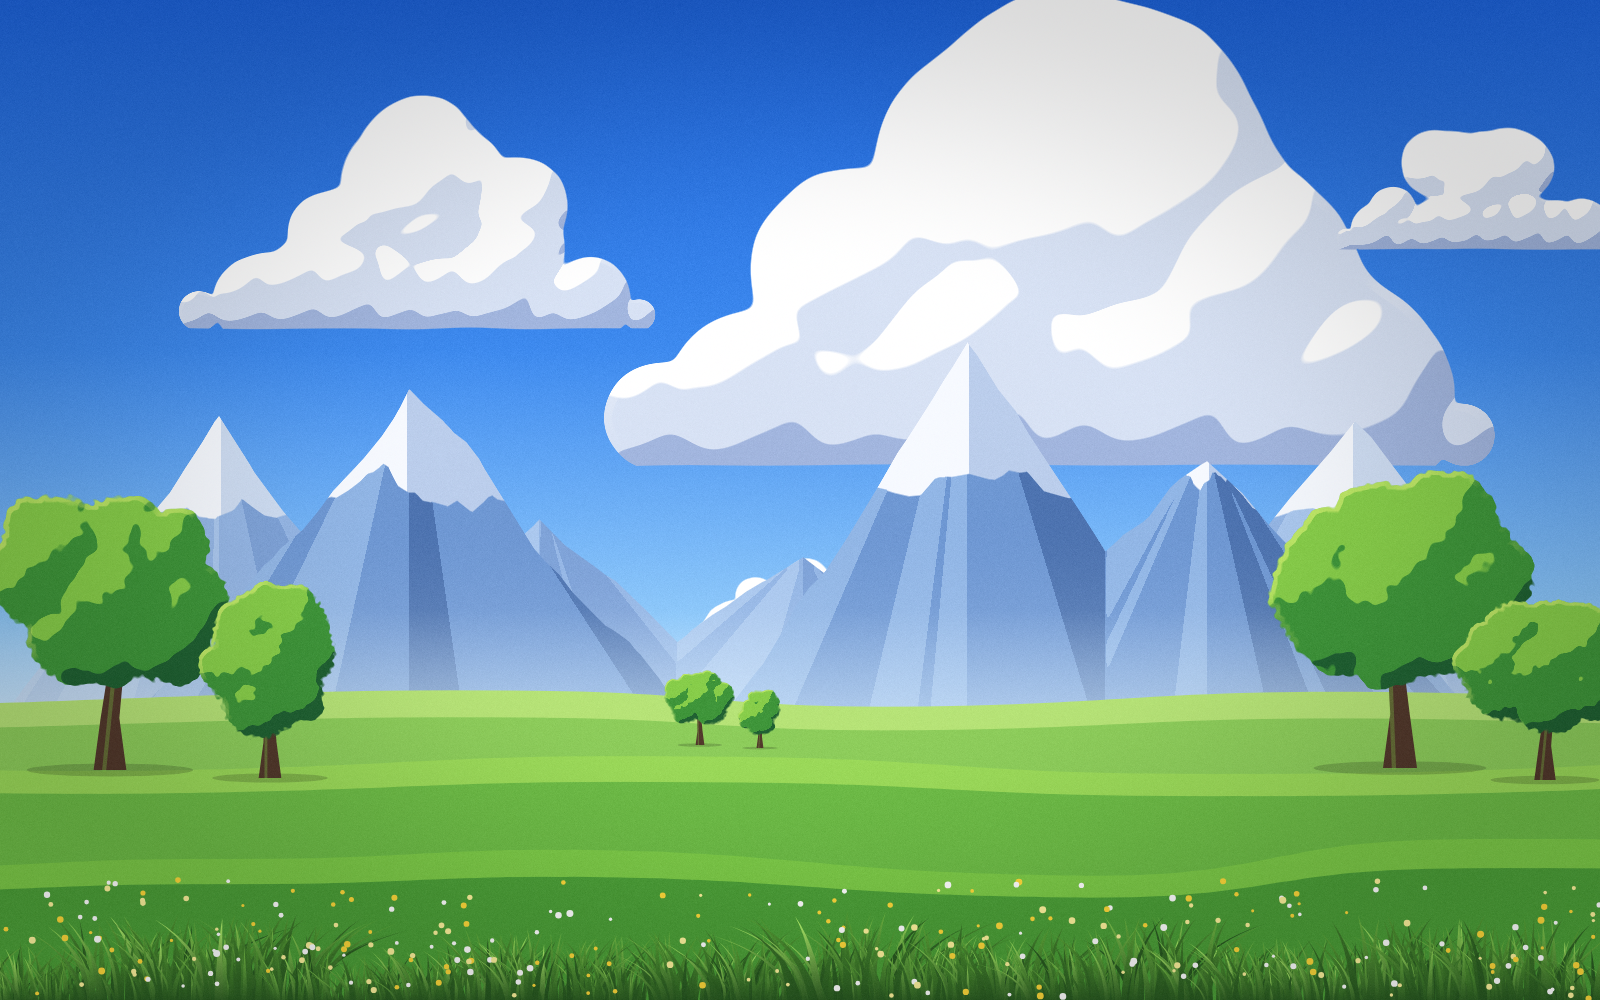
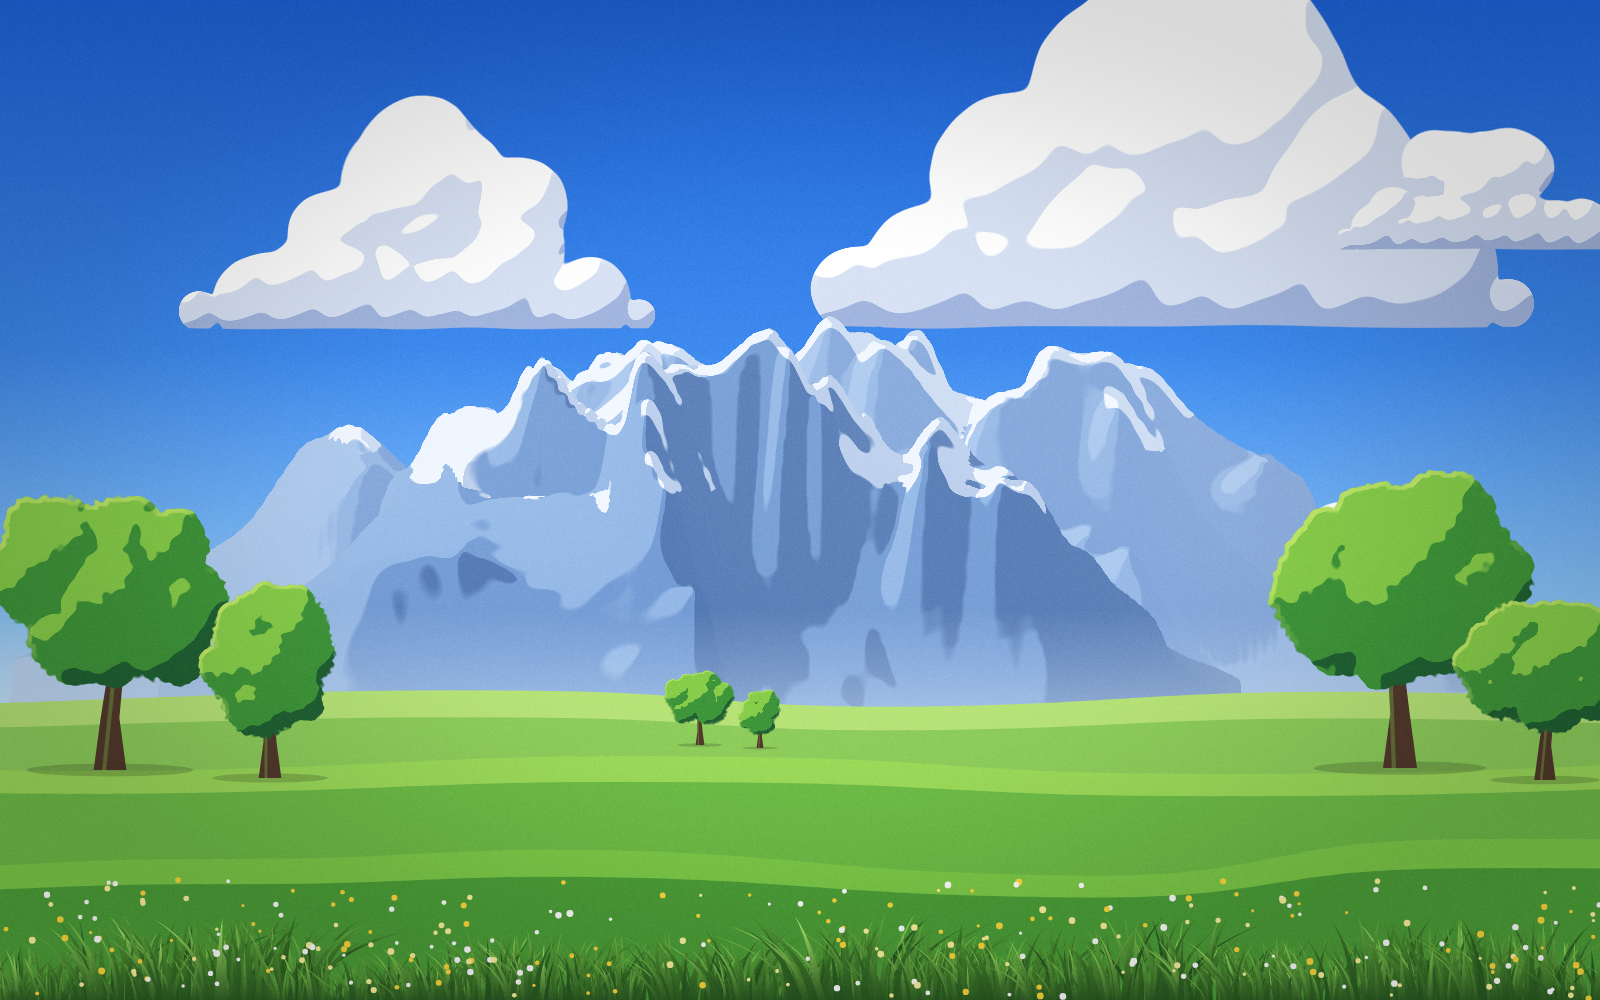
atelier 0.3.1: anime_mountains built from eroded terrain
Replace the cone + radial-spur construction with an eroded height map seen
from the front (painter's order, far rows higher), then flatten the light into
cel tones split by percentiles. Ridges, gullies and snow follow real relief.
New args: depth, bands (detail removed).

Changed region(s): [[0.0938, 0.0, 0.9688, 0.713]]

diff --git a/atelier/anime.py b/atelier/anime.py
@@ -343,70 +343,79 @@ MOUNTAIN_PALETTES = {  # shadow, mid, light, snow, snow shadow, haze
 }
 
 
-def _ridge1d(a, freq, rng, octaves=3):
-    """Ridged 1D value noise of a (any shape), ~freq features per unit."""
-    out = np.zeros_like(a)
-    amp, tot = 1.0, 0.0
-    for _ in range(octaves):
-        g = rng.uniform(-1, 1, 512)
-        v = np.interp((a * freq) % 511, np.arange(512), g)
-        out += (1 - np.abs(v)) * amp
-        tot += amp; amp *= 0.5; freq *= 2.1
-    return out / tot
-
-
-def _layer_anime_mountains(self, y, height, peaks=4, x0=None, x1=None, palette="day", light=(150, 30), snow=0.35,
-                           haze=0.6, sharp=1.0, detail=1.0, seed=0, opacity=1.0):
-    """Paint a cel-shaded mountain range whose foot lies on canvas row y; the highest peak rises `height` px.
-    peaks = number of main summits between x0 and x1 (default full width). Spurs radiate from each summit,
-    so lit and shadowed faces run diagonally (x0, x1 only place the summits); snow covers the top `snow` fraction (lit / shadowed tones).
-    palette: day | dusk | autumn | (shadow, mid, light, snow, snow_shadow, haze). haze fades the foot."""
+def _layer_anime_mountains(self, y, height, peaks=4, x0=None, x1=None, palette="day", light=(150, 35), snow=0.35,
+                           haze=0.6, sharp=1.0, depth=0.35, bands=3, seed=0, opacity=1.0):
+    """Paint a cel-shaded mountain range whose foot lies on canvas row y; the highest summit rises `height` px.
+    Built from an eroded height map seen from the front, so ridges, gullies and snow streaks are real
+    relief, then flattened into `bands` tones. peaks ~ number of main summits between x0 and x1 (default
+    full width); depth = how much the far ranges rise behind (0 = flat wall); snow = top fraction under
+    snow (it settles on gentle slopes); sharp > 1 = spikier summits.
+    palette: day | dusk | autumn | (shadow, mid, light, snow, snow_shadow, haze). haze fades far and low parts."""
+    from .terrain import terrain, normals
     s = self.s
     x0 = 0 if x0 is None else x0
     x1 = self.w if x1 is None else x1
     rng = np.random.default_rng(seed)
     pal = MOUNTAIN_PALETTES[palette] if isinstance(palette, str) else palette
     sh, md, lt, sn, sns, hz = (_rgb(c) for c in pal)
-    span = x1 - x0
-    xs = x0 + (np.arange(peaks) + 0.5 + rng.uniform(-0.3, 0.3, peaks)) / peaks * span
-    hs = rng.uniform(0.55, 1.0, peaks); hs[rng.integers(peaks)] = 1.0
-    ws = span / peaks * rng.uniform(0.7, 1.1, peaks) / sharp       # half-width at the foot, canvas px
 
-    X0, X1 = 0, self.W
-    Y0, Y1 = max(int((y - height * 1.05) * s), 0), min(int(y * s) + 1, self.H)
+    n = 160
+    hm = terrain(n, "alpine", seed=seed, scale=max(peaks * 0.55, 1.0))
+    zf = np.linspace(0, 1, n, dtype=F32)[:, None]                 # 0 = back row, 1 = front row
+    xf = np.linspace(0, 1, n, dtype=F32)[None, :]
+    env = np.clip(1 - (2 * zf - 1.1) ** 2 * 1.6, 0, 1) * np.clip(np.sin(np.pi * xf) * 1.3, 0, 1)
+    hm = cv2.GaussianBlur(np.clip(hm, 0, 1).astype(F32), (0, 0), 1.2) ** sharp * env   # summits mid-depth
+    hm = (hm / max(float(hm.max()), 1e-6)).astype(F32)
+
+    span = x1 - x0
+    X0, X1 = max(int(x0 * s), 0), min(int(x1 * s) + 1, self.W)
+    Y0, Y1 = max(int((y - height * (1 + depth) * 1.02) * s), 0), min(int(y * s) + 1, self.H)
     if X0 >= X1 or Y0 >= Y1:
         return self
-    yy, xx = np.mgrid[Y0:Y1, X0:X1].astype(F32)
-    cx, alt = xx / s, (y - yy / s) / height                       # canvas x, altitude 0 (foot) .. 1
-    best = np.full(cx.shape, -9.0, F32)
-    side = np.zeros_like(cx); radial = np.zeros_like(cx)
-    for xp, hp, wp in zip(xs, hs, ws):
-        u = (cx - xp) / wp
-        top = hp * np.clip(1 - np.abs(u), 0, None) ** 1.1                         # cone silhouette
-        m = top > best
-        best = np.where(m, top, best)
-        side = np.where(m, np.sign(u), side)
-        radial = np.where(m, u / np.maximum(hp - alt * 0.9, 0.05) + xp * 0.01, radial)   # angle around the summit
-    prof = best + (_ridge1d(cx / span, 9, rng) - 0.5) * 0.12 * detail * np.clip(best * 3, 0, 1)
-    inside = np.clip((prof - alt) * height * s / 1.2 + 0.5, 0, 1)
+    bw, bh = X1 - X0, Y1 - Y0
+    full = max(int(span * s), 2)                                   # resample columns to screen pixels
+    hx = cv2.resize(hm, (full, n), interpolation=cv2.INTER_CUBIC)[:, max(X0 - int(x0 * s), 0):][:, :bw]
+    if hx.shape[1] < bw:
+        hx = np.pad(hx, ((0, 0), (0, bw - hx.shape[1])), mode="edge")
+    N3 = normals(hx, size=bw / (height * s), height=1.0 / max(depth, 0.15) * 0.5)
+    alt = (y - (np.arange(Y0, Y1, dtype=F32)[:, None] + 0.5) / s) / height    # 0 at the foot
+    # front view, painter's order: far rows sit higher on screen (camera slightly above)
+    top = np.where(hx > 0.01, hx + (1 - zf) * depth, -1.0)        # bare ground behind does not form a wall
+    idx = np.full((bh, bw), -1, np.int32)
+    for z in range(n):
+        idx = np.where(top[z][None, :] > alt, z, idx)
+    sil = top.max(0)
+    alpha = np.clip((sil[None, :] - alt) * height * s / 1.2 + 0.5, 0, 1) * (idx >= 0)
+    zi = np.maximum(idx, 0)
+    cols = np.arange(bw)[None, :].repeat(bh, 0)
+    Nn = N3[zi, cols]
+    hh = hx[zi, cols]
+    zz = zi / (n - 1)
 
-    # facets: spurs radiate from summits; a face is lit when it turns toward the light
-    spur = _ridge1d(radial, 1.4, rng, 2)
-    dsp = np.gradient(spur, axis=1)
-    lx = float(_light_vec(light)[0])
-    face = -side * 0.6 + np.sign(dsp) * 0.5 * detail
-    t = -face * np.sign(lx) * 0.5 + 0.5
-    t = cv2.GaussianBlur(t.astype(F32), (0, 0), max(0.8, height * s * 0.004))
-    col = np.where((t > 0.7)[..., None], lt, np.where((t > 0.3)[..., None], md, sh)).astype(F32)
-    # snow: above a ragged snowline, streaks running down the spurs
-    line = 1 - snow + (spur - 0.5) * 0.35 * snow + (_ridge1d(cx / span, 23, rng, 2) - 0.5) * 0.08
-    sm = np.clip((alt - line) * height * s / 1.5 + 0.5, 0, 1) * (best > 0.45)
-    snowc = np.where((t > 0.5)[..., None], sn, sns)
-    col = col * (1 - sm[..., None]) + snowc * sm[..., None]
-    if haze > 0:
-        k = (np.clip(1 - alt / 0.6, 0, 1) ** 1.6 * haze)[..., None]
-        col = col * (1 - k) + hz * k
-    a = (inside * opacity)[..., None]
+    az, el = math.radians(light[0]), math.radians(light[1])
+    Lv = np.array([math.cos(az) * math.cos(el), math.sin(el), 0.45 * math.sin(az) * math.cos(el) + 0.3], F32)
+    Lv /= np.linalg.norm(Lv)
+    sg = max(1.5, height * s * 0.008)                              # smooth normals on screen (no row combing)
+    Nn = np.stack([cv2.GaussianBlur(np.ascontiguousarray(Nn[..., i]), (0, 0), sg) for i in range(3)], -1)
+    lam = (Nn @ Lv).astype(F32) / (np.linalg.norm(Nn, axis=-1) + 1e-6)
+    steps = [sh, md, lt] if bands == 3 else [sh, lt] if bands == 2 else [sh, (sh + md) / 2, md, lt]
+    col = np.broadcast_to(steps[0], (bh, bw, 3)).copy()
+    vis = lam[alpha > 0.5]
+    lo, hi = np.percentile(vis, [30, 72]) if vis.size else (0.35, 0.75)   # every range gets all tones
+    for e, c in zip(np.linspace(lo, hi, len(steps) - 1), steps[1:]):
+        m = np.clip((lam - e) / 0.012 + 0.5, 0, 1)[..., None]
+        col = col * (1 - m) + c * m
+    # snow: high ground on gentle slopes; lit and shadowed tones
+    line = 1 - snow + _noise(bh, bw, max(height * s * 0.05, 2), rng) * 0.04
+    flat = np.clip((Nn[..., 1] - 0.05) / 0.12, 0, 1)
+    sm = np.clip((hh - line) / 0.02, 0, 1) * flat
+    sm = cv2.GaussianBlur(sm.astype(F32), (0, 0), max(0.6, s * 0.6))
+    sm = np.clip((sm - 0.5) / 0.1 + 0.5, 0, 1)[..., None]
+    col = col * (1 - sm) + np.where((lam > (lo + hi) / 2)[..., None], sn, sns) * sm
+    if haze > 0:   # aerial perspective: far rows and the foot fade into the haze colour
+        k = np.clip((1 - zz) * 0.55 + np.clip(1 - alt / 0.35, 0, 1) ** 2 * 0.6, 0, 1) * haze
+        col = col * (1 - k[..., None]) + hz * k[..., None]
+    a = (alpha * opacity)[..., None]
     dst = self.px[Y0:Y1, X0:X1]
     dst[:] = np.concatenate([col * a, a], -1) + dst * (1 - a)
     self.touch()

diff --git a/examples/anime_sky.py b/examples/anime_sky.py
@@ -10,15 +10,15 @@ c.fill(gradient([(0, "#1f5fd0"), (0.35, "#3f86e6"), (0.62, "#8fc6f5"), (0.75, "#
 sky = c.layer()
 for x, y, w, sd in [(300, 640, 300, 11), (1350, 600, 280, 12), (800, 650, 220, 13)]:
     sky.anime_cloud(x, y, w, h=w * 0.35, palette=("#b8cbe8", "#dce8f7", "#ffffff", "#ffffff"), wisps=0.2, seed=sd)
-sky.anime_cloud(1060, 470, 760, h=420, light=(130, 40), seed=4)
+sky.anime_cloud(1180, 330, 620, h=330, light=(130, 40), seed=4)
 sky.anime_cloud(420, 330, 420, h=200, light=(130, 40), seed=7)
 sky.anime_cloud(1480, 250, 260, h=120, light=(130, 40), seed=9)
 
 # mountains: far pale range, then the main snowy range (cel-shaded facets radiating from the summits)
 rng = np.random.default_rng(SEED)
-c.layer().anime_mountains(760, 330, peaks=5, light=(150, 30), snow=0.25, haze=0.8, seed=5,
+c.layer().anime_mountains(760, 380, peaks=5, light=(150, 30), snow=0.3, haze=0.55, seed=5,
                           palette=("#7d9fd2", "#93b3e0", "#a9c5ea", "#f6f9ff", "#cddbf0", "#d6e8f8"))
-c.layer().anime_mountains(780, 430, peaks=3, x0=250, x1=1450, light=(150, 30), snow=0.35, seed=8)
+c.layer().anime_mountains(790, 400, peaks=3, x0=150, x1=1250, light=(150, 30), snow=0.4, seed=8)
 c.layer(opacity=0.4).fill("#d4e7f8", mask=band(0.66, 0.82, soft=0.1))     # aerial haze at the foot
 
 # rolling meadows, far to near: flat cel bands, a lighter lit strip on each crest

diff --git a/atelier/__init__.py b/atelier/__init__.py
@@ -15,6 +15,6 @@ from .figure import *  # noqa: F401,F403
 from .anime import *  # noqa: F401,F403
 from .inspect import *  # noqa: F401,F403
 
-__version__ = "0.3.0"
+__version__ = "0.3.1"
 _MODULES = ("core", "field", "vector", "fx", "brush", "sdf", "pt", "stylize", "terrain", "nature", "figure", "anime", "inspect")
 __all__ = list(dict.fromkeys(n for m in _MODULES for n in getattr(_sys.modules[f"{__name__}.{m}"], "__all__", [])))

diff --git a/.claude/skills/atelier/SKILL.md b/.claude/skills/atelier/SKILL.md
@@ -122,7 +122,7 @@ c.grass(x, y, w, h, n) c.flower(x, y, size, kind="daisy"|"poppy"|"tulip"|"bell")
 scene_sky(s, sun_elev, sun_az)   # physical sky on a 3D Scene
 c.anime_cloud(x, y, w, h=.55w, palette="day"|"sunset"|"dusk"|"storm"|(shadow,mid,light,rim), light=(az, elev), bands=3, rim=.7, wisps, edge, bottom, seed)  # cel-shaded cumulus, flat base at (x, y)
 c.anime_tree(x, y, height, kind="round"|"tall"|"umbrella", palette="summer"|"spring"|"autumn"|"sakura"|"dusk"|(sh,mid,lt,rim,trunk), light, width, leafy=.6, seed)  # cel-shaded tree
-c.anime_mountains(y_foot, height, peaks=4, x0, x1, palette="day"|"dusk"|"autumn"|(sh,mid,lt,snow,snow_sh,haze), light, snow=.35, haze=.6, sharp=1, seed)  # faceted range
+c.anime_mountains(y_foot, height, peaks=4, x0, x1, palette="day"|"dusk"|"autumn"|(sh,mid,lt,snow,snow_sh,haze), light, snow=.35, haze=.6, sharp=1, depth=.35, bands=3, seed)  # eroded relief, front view, cel tones
 c.sparkles(n, region=mask, size=(6, 16), color, rays=4, glow=.6, seed)   # star glints (water, snow)
 ```
 

diff --git a/SKILL.md b/SKILL.md
@@ -122,7 +122,7 @@ c.grass(x, y, w, h, n) c.flower(x, y, size, kind="daisy"|"poppy"|"tulip"|"bell")
 scene_sky(s, sun_elev, sun_az)   # physical sky on a 3D Scene
 c.anime_cloud(x, y, w, h=.55w, palette="day"|"sunset"|"dusk"|"storm"|(shadow,mid,light,rim), light=(az, elev), bands=3, rim=.7, wisps, edge, bottom, seed)  # cel-shaded cumulus, flat base at (x, y)
 c.anime_tree(x, y, height, kind="round"|"tall"|"umbrella", palette="summer"|"spring"|"autumn"|"sakura"|"dusk"|(sh,mid,lt,rim,trunk), light, width, leafy=.6, seed)  # cel-shaded tree
-c.anime_mountains(y_foot, height, peaks=4, x0, x1, palette="day"|"dusk"|"autumn"|(sh,mid,lt,snow,snow_sh,haze), light, snow=.35, haze=.6, sharp=1, seed)  # faceted range
+c.anime_mountains(y_foot, height, peaks=4, x0, x1, palette="day"|"dusk"|"autumn"|(sh,mid,lt,snow,snow_sh,haze), light, snow=.35, haze=.6, sharp=1, depth=.35, bands=3, seed)  # eroded relief, front view, cel tones
 c.sparkles(n, region=mask, size=(6, 16), color, rays=4, glow=.6, seed)   # star glints (water, snow)
 ```
 
